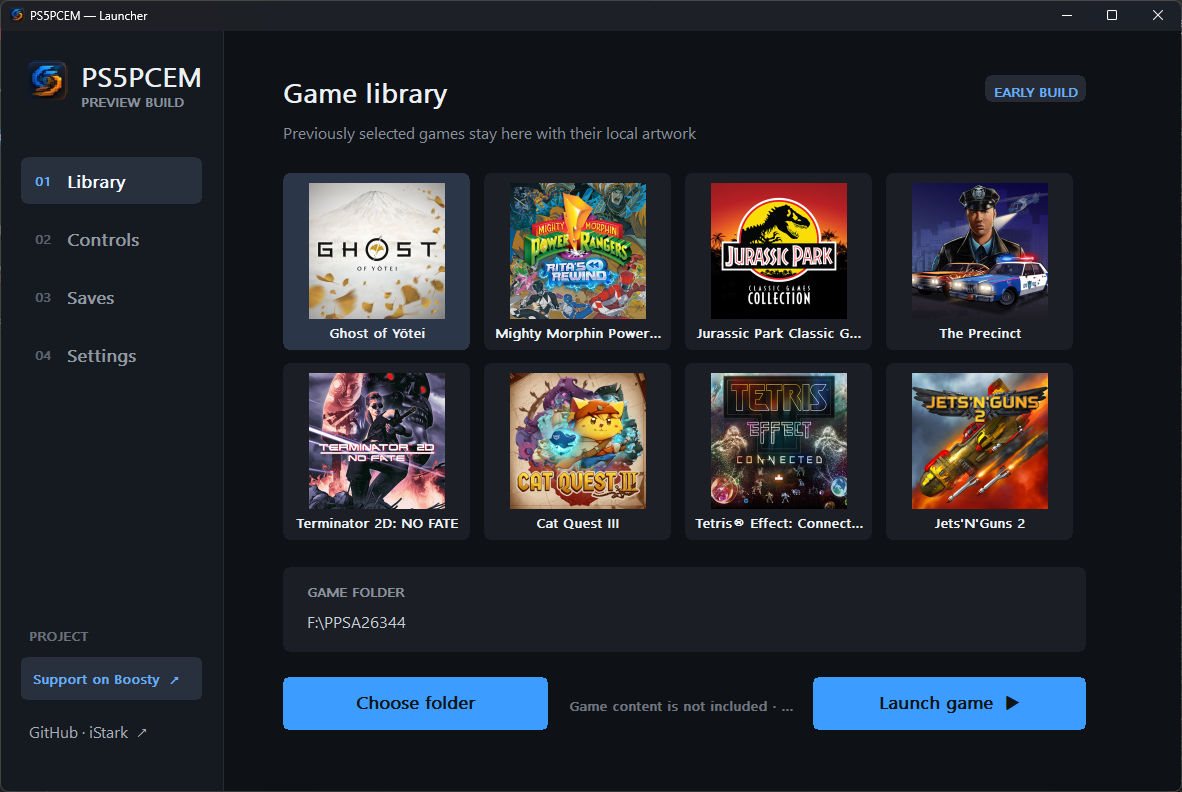
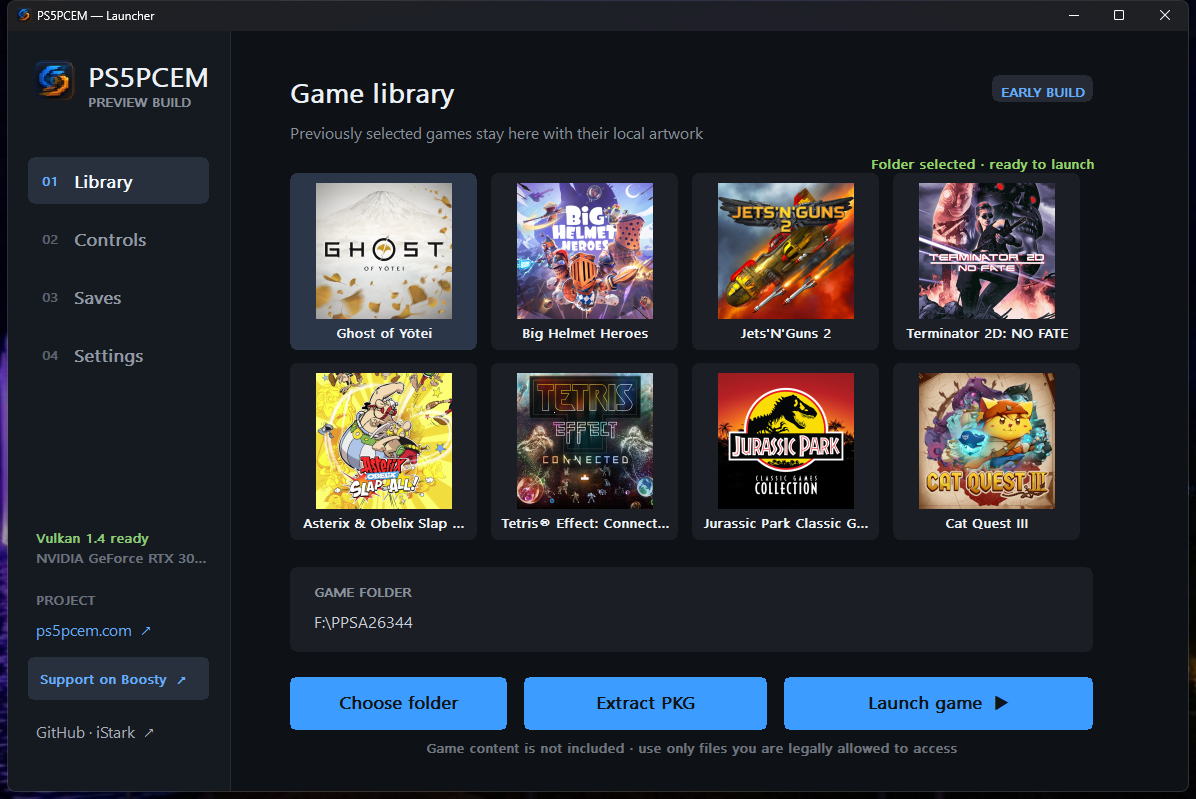
docs: retake the launcher capture
The published one is from September 4 and predates the Vulkan readiness
report, the site link, package extraction and the launch-readiness line,
so it showed a launcher that no longer exists. The paragraph beside it
gains the two features the new picture makes visible.

diff --git a/README.md b/README.md
@@ -35,7 +35,9 @@
 
 The launcher remembers up to eight recent titles, reads artwork from each
 title's local `sce_sys/icon0.png`, detects DualSense and DualShock controllers,
-and keeps portable settings and savedata beside the application.
+and keeps portable settings and savedata beside the application. It reports
+whether the host can run Vulkan before a title is started, naming the device it
+found, and can invoke the package extractor on a debug package directly.
 
 ## See it running
 
